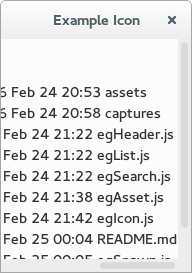
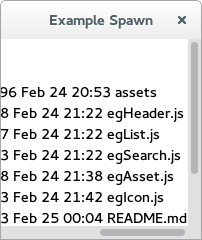
Fixed spawn example title

diff --git a/egSpawn.js b/egSpawn.js
@@ -40,7 +40,7 @@ App.prototype.buildUI = function() {
     let scroll;
 
     this.window = new Gtk.ApplicationWindow({ application: this.application,
-                                              title: "Example Icon" });
+                                              title: "Example Spawn" });
     this.window.set_default_size(200, 200);
     try {
         this.window.set_icon_from_file('./assets/app-icon.png');
